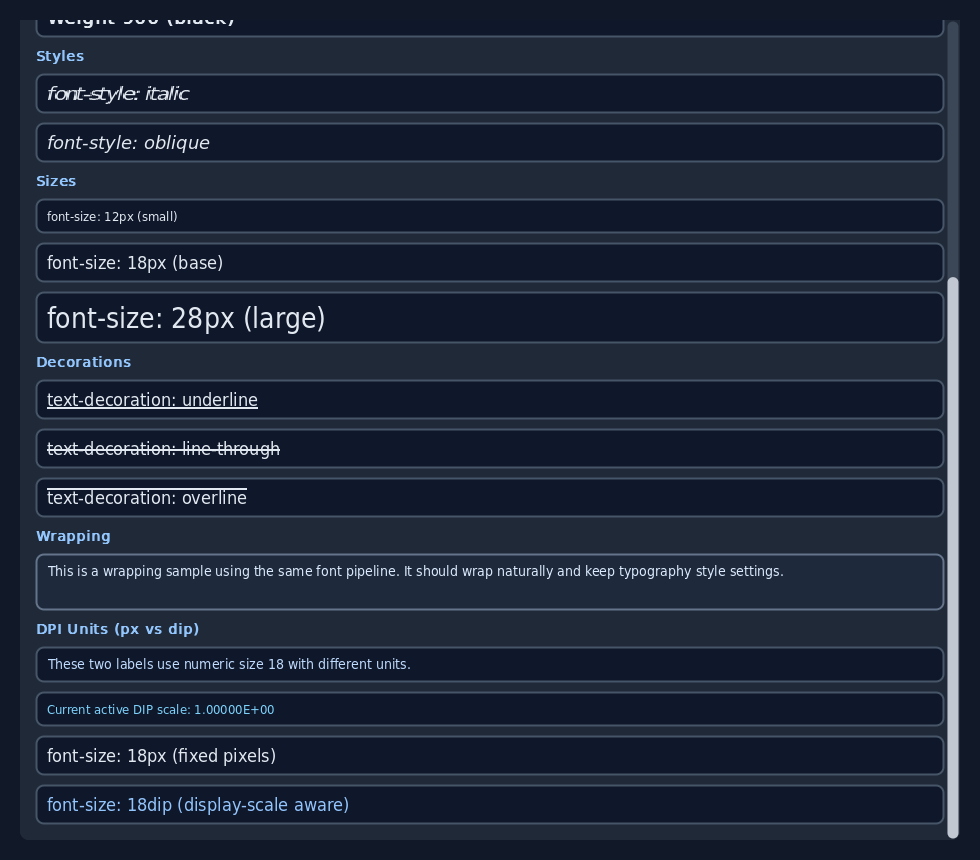
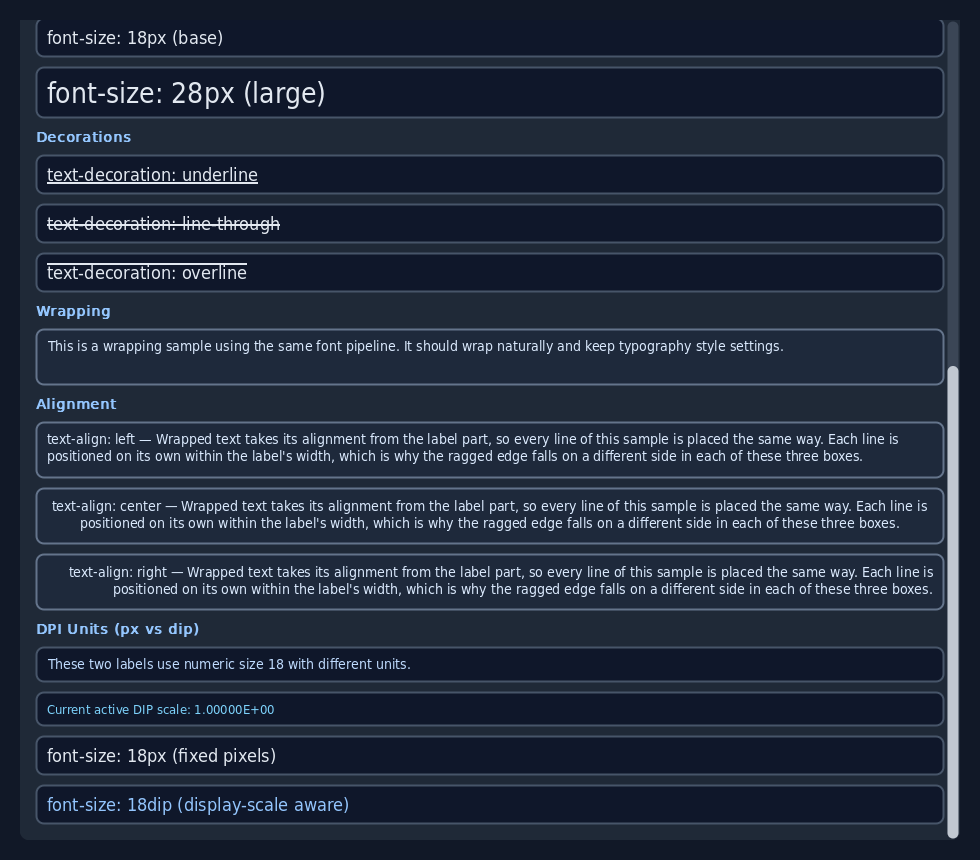
Font example: demonstrate wrapped text alignment
An Alignment section shows text-align left, center and right on
wrapped, multi-line samples. Create_Wrap_Sample takes an extra style
the way Create_Sample already does.

justify is left out: the value parses, but every consumer folds it
into left, so a fourth sample would render identically to the first.

Changed region(s): [[0.0306, 0.0, 0.9796, 0.6953]]

diff --git a/examples/css/font_example.css b/examples/css/font_example.css
@@ -170,6 +170,18 @@
   text-wrap-mode: wrap;
 }
 
+.align_left::label {
+  text-align: left;
+}
+
+.align_center::label {
+  text-align: center;
+}
+
+.align_right::label {
+  text-align: right;
+}
+
 .title {
   flex-shrink: 0;
 }
